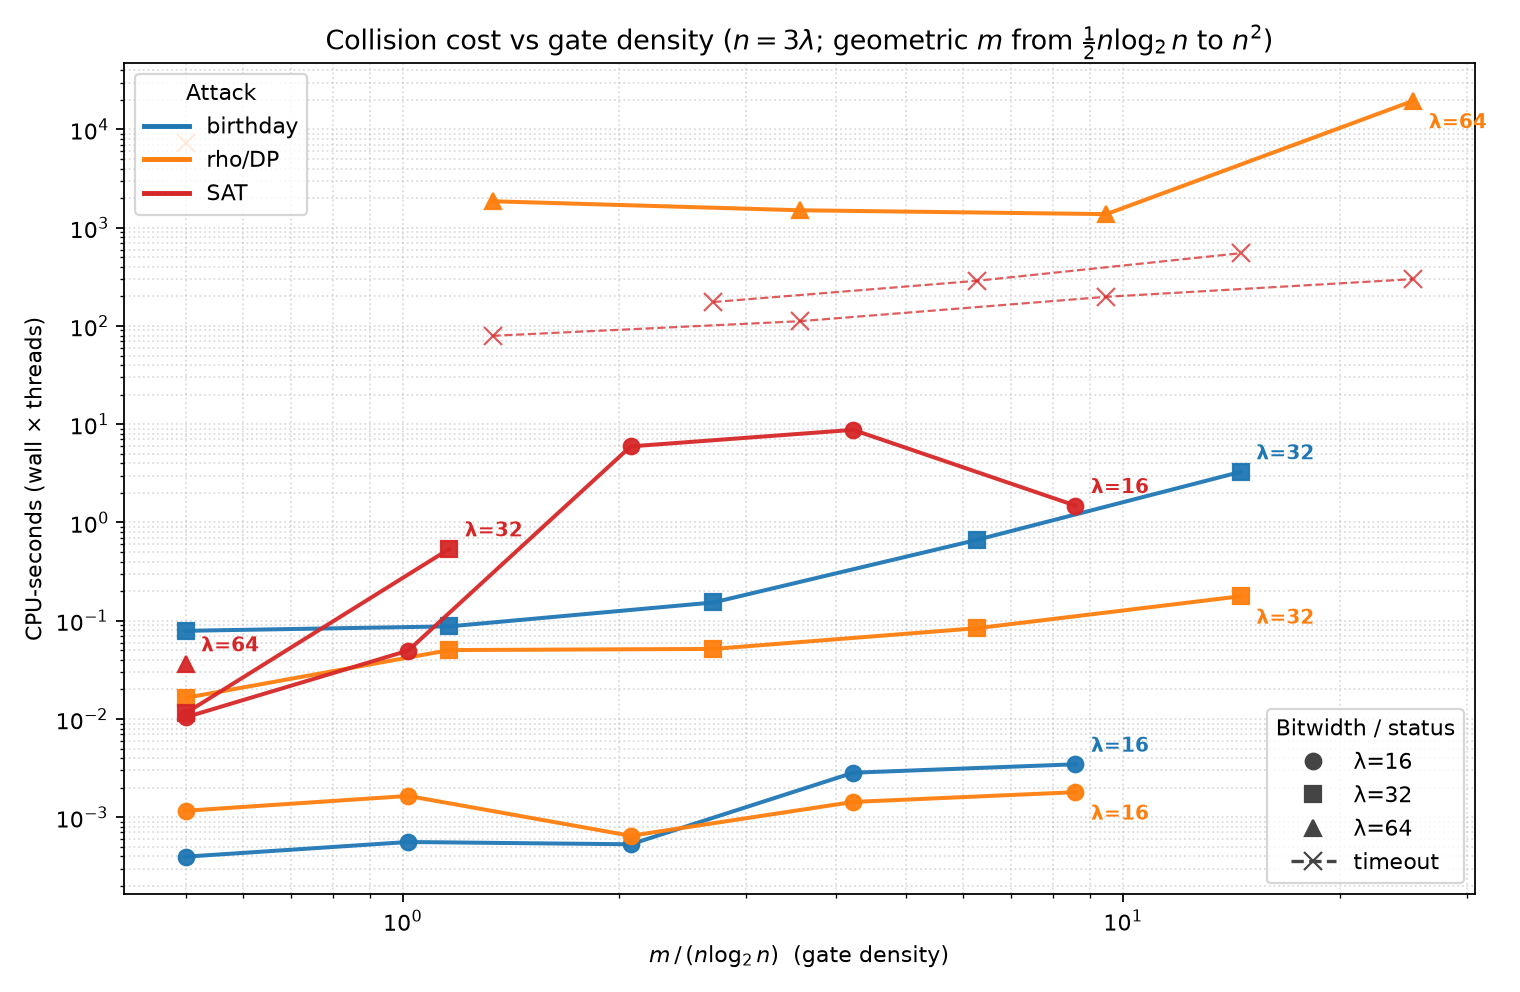
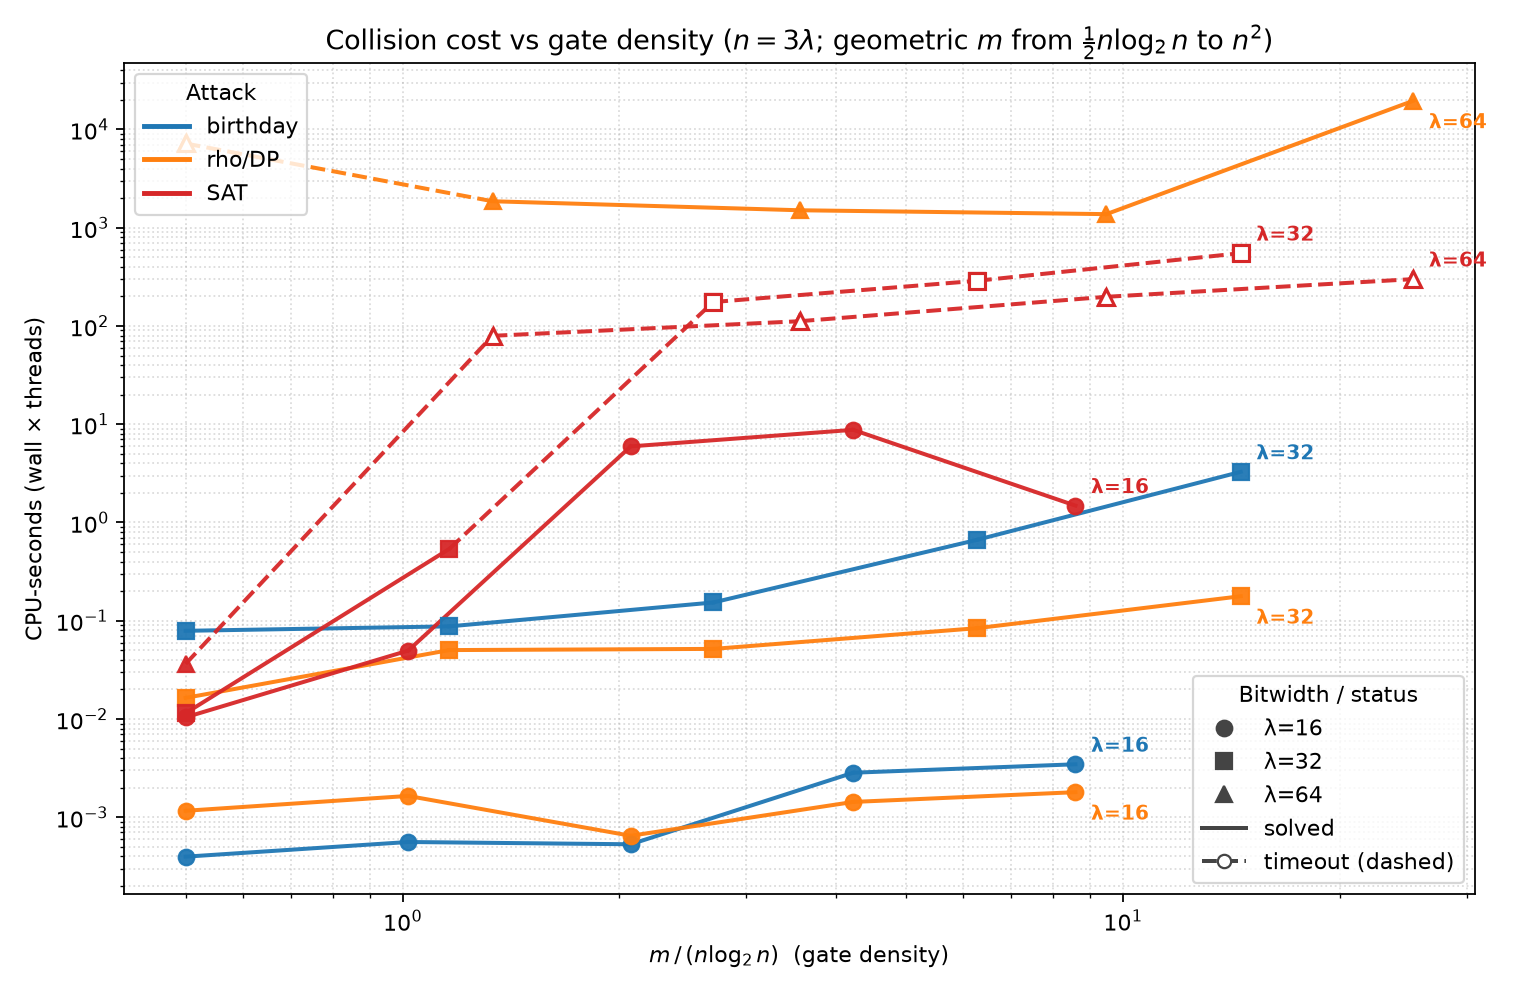
Connect timeout points on gate-density curves with dashed lines
Keep the bitwidth marker shape for timeouts (hollow) and draw dashed
segments through them so each (attack, λ) series stays one labeled curve.

diff --git a/security_tests/collision/plot_gate_density.py b/security_tests/collision/plot_gate_density.py
@@ -70,58 +70,67 @@ def plot(results: dict, out_png: Path, out_pdf: Path | None = None) -> None:
     for attack, style in ATTACK_STYLE.items():
         color = style["color"]
         for lam, pts in sorted(series.get(attack, {}).items()):
+            if not pts:
+                continue
             marker = LAMBDA_MARKERS.get(lam, "o")
-            ok_x = [p[0] for p in pts if p[2] == "ok"]
-            ok_y = [p[1] for p in pts if p[2] == "ok"]
-            to_x = [p[0] for p in pts if p[2] != "ok"]
-            to_y = [p[1] for p in pts if p[2] != "ok"]
-
+            xs = [p[0] for p in pts]
+            ys = [p[1] for p in pts]
+            ok_flags = [p[2] == "ok" for p in pts]
             # Slight per-attack vertical nudge so nearby labels don't collide.
             dy = {"birthday": 8, "rho": -10, "sat": 8}.get(attack, 0)
-            if ok_x:
+
+            # Draw segment-by-segment so solved stretches stay solid and any
+            # segment touching a timeout is dashed — same markers throughout.
+            for i in range(len(pts) - 1):
+                ls = "-" if ok_flags[i] and ok_flags[i + 1] else "--"
                 ax.plot(
-                    ok_x,
-                    ok_y,
+                    xs[i : i + 2],
+                    ys[i : i + 2],
                     color=color,
-                    marker=marker,
-                    ms=7,
+                    ls=ls,
                     lw=1.8,
                     alpha=0.95,
-                    zorder=3,
+                    zorder=2,
                 )
-                ax.annotate(
-                    f"λ={lam}",
-                    xy=(ok_x[-1], ok_y[-1]),
-                    xytext=(7, dy),
-                    textcoords="offset points",
-                    color=color,
-                    fontsize=9,
-                    fontweight="bold",
-                    va="center",
-                )
+            ax.plot(
+                xs,
+                ys,
+                color=color,
+                marker=marker,
+                ms=7,
+                lw=0,
+                alpha=0.95,
+                zorder=3,
+                markerfacecolor=color,
+                markeredgecolor=color,
+            )
+            # Hollow markers for timeout points (same shape).
+            to_x = [x for x, ok in zip(xs, ok_flags) if not ok]
+            to_y = [y for y, ok in zip(ys, ok_flags) if not ok]
             if to_x:
                 ax.plot(
                     to_x,
                     to_y,
                     color=color,
-                    marker="x",
-                    ms=8,
-                    lw=1.0,
-                    ls="--",
-                    alpha=0.75,
-                    zorder=2,
+                    marker=marker,
+                    ms=7,
+                    lw=0,
+                    markerfacecolor="white",
+                    markeredgecolor=color,
+                    markeredgewidth=1.4,
+                    zorder=4,
                 )
-                if not ok_x:
-                    ax.annotate(
-                        f"λ={lam}",
-                        xy=(to_x[-1], to_y[-1]),
-                        xytext=(7, dy),
-                        textcoords="offset points",
-                        color=color,
-                        fontsize=9,
-                        fontweight="bold",
-                        va="center",
-                    )
+
+            ax.annotate(
+                f"λ={lam}",
+                xy=(xs[-1], ys[-1]),
+                xytext=(7, dy),
+                textcoords="offset points",
+                color=color,
+                fontsize=9,
+                fontweight="bold",
+                va="center",
+            )
 
     ax.set_xscale("log")
     ax.set_yscale("log")
@@ -149,13 +158,24 @@ def plot(results: dict, out_png: Path, out_pdf: Path | None = None) -> None:
         )
         for lam in (16, 32, 64)
     ]
-    timeout_handle = Line2D(
-        [0], [0], color="#444444", marker="x", ls="--", ms=8, label="timeout"
-    )
+    style_handles = [
+        Line2D([0], [0], color="#444444", ls="-", lw=1.8, label="solved"),
+        Line2D(
+            [0],
+            [0],
+            color="#444444",
+            ls="--",
+            lw=1.8,
+            marker="o",
+            markerfacecolor="white",
+            markeredgecolor="#444444",
+            label="timeout (dashed)",
+        ),
+    ]
     leg1 = ax.legend(handles=attack_handles, loc="upper left", title="Attack")
     ax.add_artist(leg1)
     ax.legend(
-        handles=marker_handles + [timeout_handle],
+        handles=marker_handles + style_handles,
         loc="lower right",
         title="Bitwidth / status",
     )
